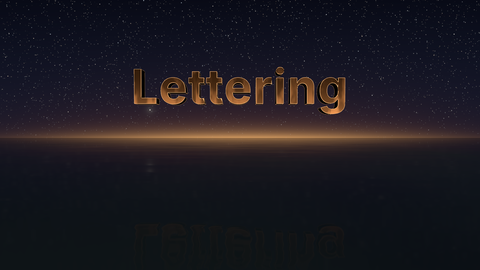
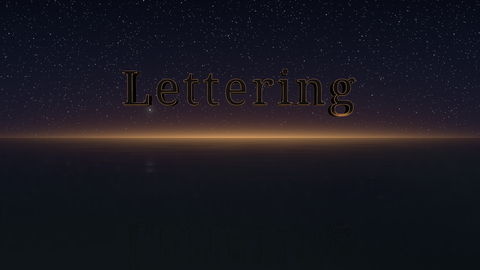
library: mid_title in the stelae's style: letters of nearly black stone in Noto Serif with spacing 0.07, a thin ember glow at their foot, copper rims about as bright as the shore's rims near and brighter far off, where they carry the reading; `depth` 0.2; the swell keeps them at or under the band at
generated with Claude Code

Changed region(s): [[0.25, 0.237, 0.75, 0.4444]]

diff --git a/library/README.md b/library/README.md
@@ -1321,8 +1321,9 @@ slot of `beats.arrange` brings the flock into every second stretch of intros, ou
 Solid lettering that stands at one place over the lake of `stage_valley`, for a title at the start
 of a show. It appears `at` seconds into the file, `distance` metres ahead of the camera, and rises
 out of the water. It then stays where it is in the world. The camera comes nearer and passes under
-it. The letters have black bodies, an ember glow low in their faces and bright rims along the
-front's outlines. The swell lifts the glow, and the band's dawn lifts the rims. The lake mirrors the
+it. The letters are black stone with copper rims along the front's outlines and a thin ember glow
+at their foot. Far off, the rims are brighter and carry the reading. The swell lifts rims and glow,
+and the band's dawn lifts them a little more. The lake mirrors the
 lettering faint and rippled.
 
 **Timing.** The camera flies `step` metres per beat: 0.5 m at 125 BPM is about 1 m per second. So
@@ -1340,8 +1341,8 @@ that the title's chain does not cook, and it costs nothing.
 
 - In: `bus`, `pose`.
 - Out: `out`; `shown` (above 0 while the title can still be seen).
-- Params: `text`, `font`, `style`, `size` (font size in metres, 1), `depth` (metres, 0.3), `spacing`,
-  `align` as on `geo.text`; `at` (seconds, 3), `distance` (metres, 30), `height` (metres above the
+- Params: `text`, `font`, `style`, `size` (font size in metres, 1), `depth` (metres, 0.2), `spacing`,
+  `align` as on `geo.text`, Noto Serif with `spacing` 0.07 by default; `at` (seconds, 3), `distance` (metres, 30), `height` (metres above the
   water of the lettering's middle, 4.2; keep the lower edge above the camera), `side` (metres, 0;
   the camera flies along 0), `step` (set it to the stage's `step`, 0.5), `rise` (seconds, 3), `sink`
   (metres it starts below `height` and sinks to, 6), `behind` (metres behind the camera at which it
